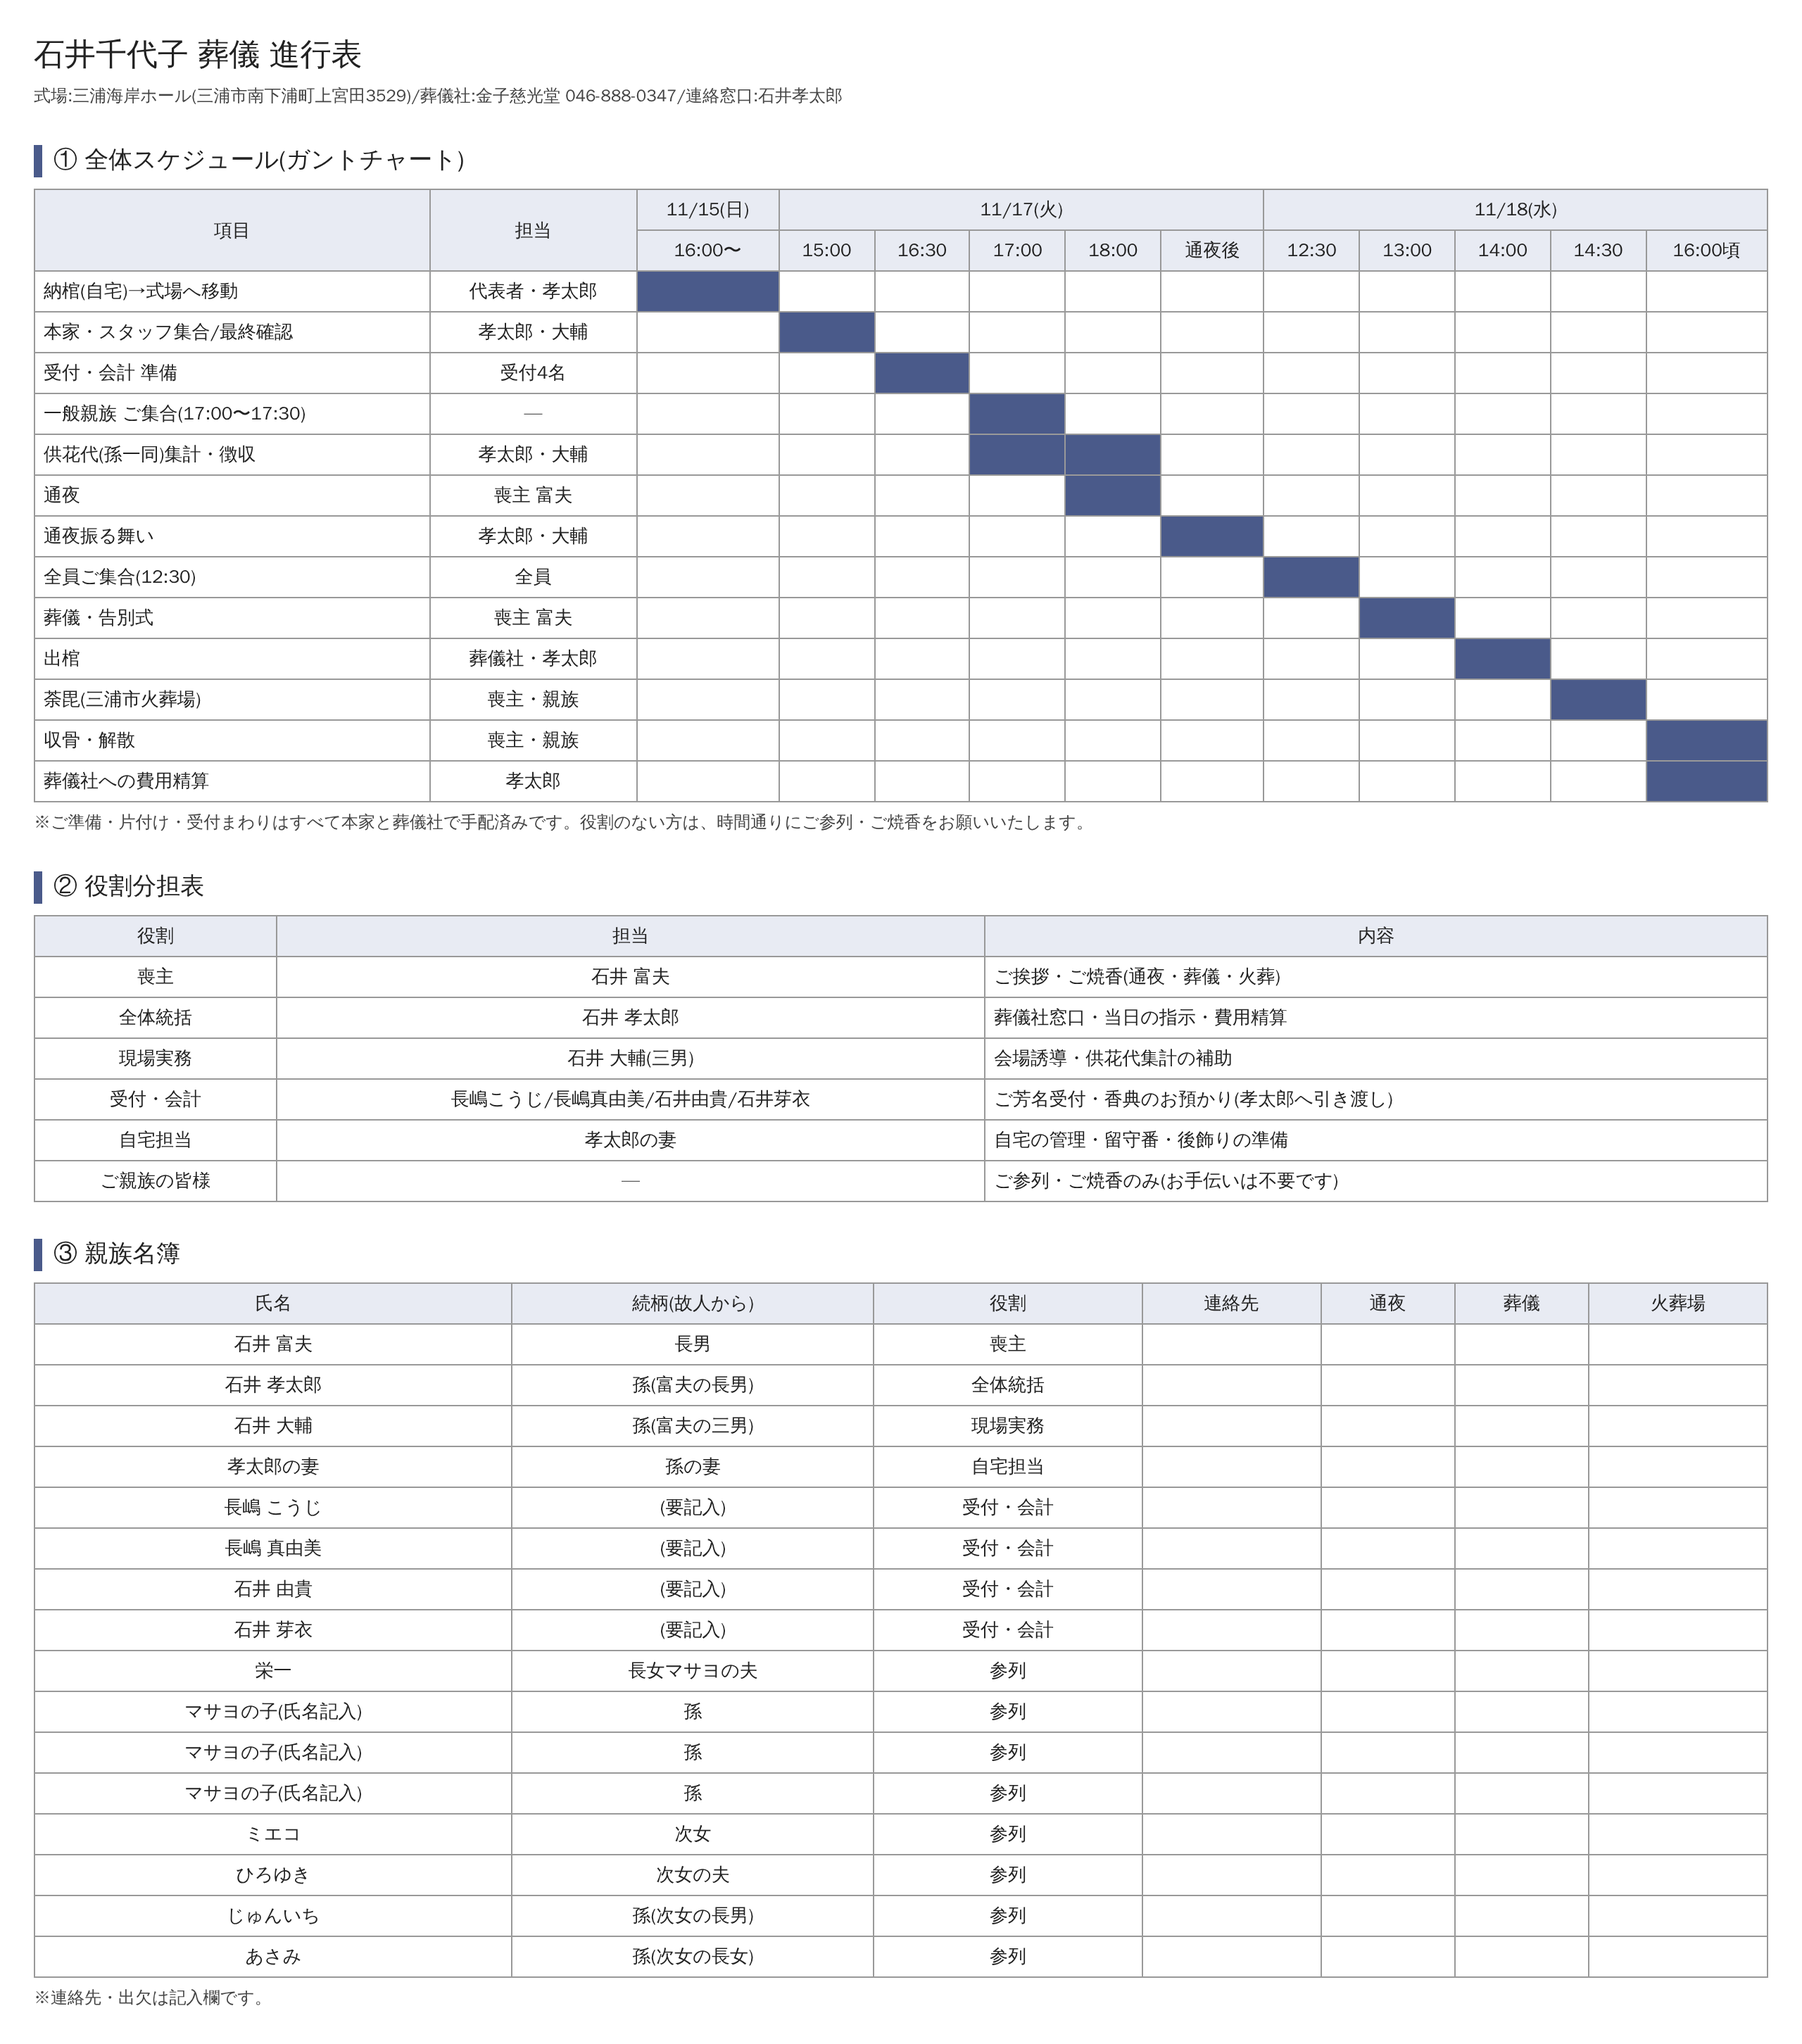
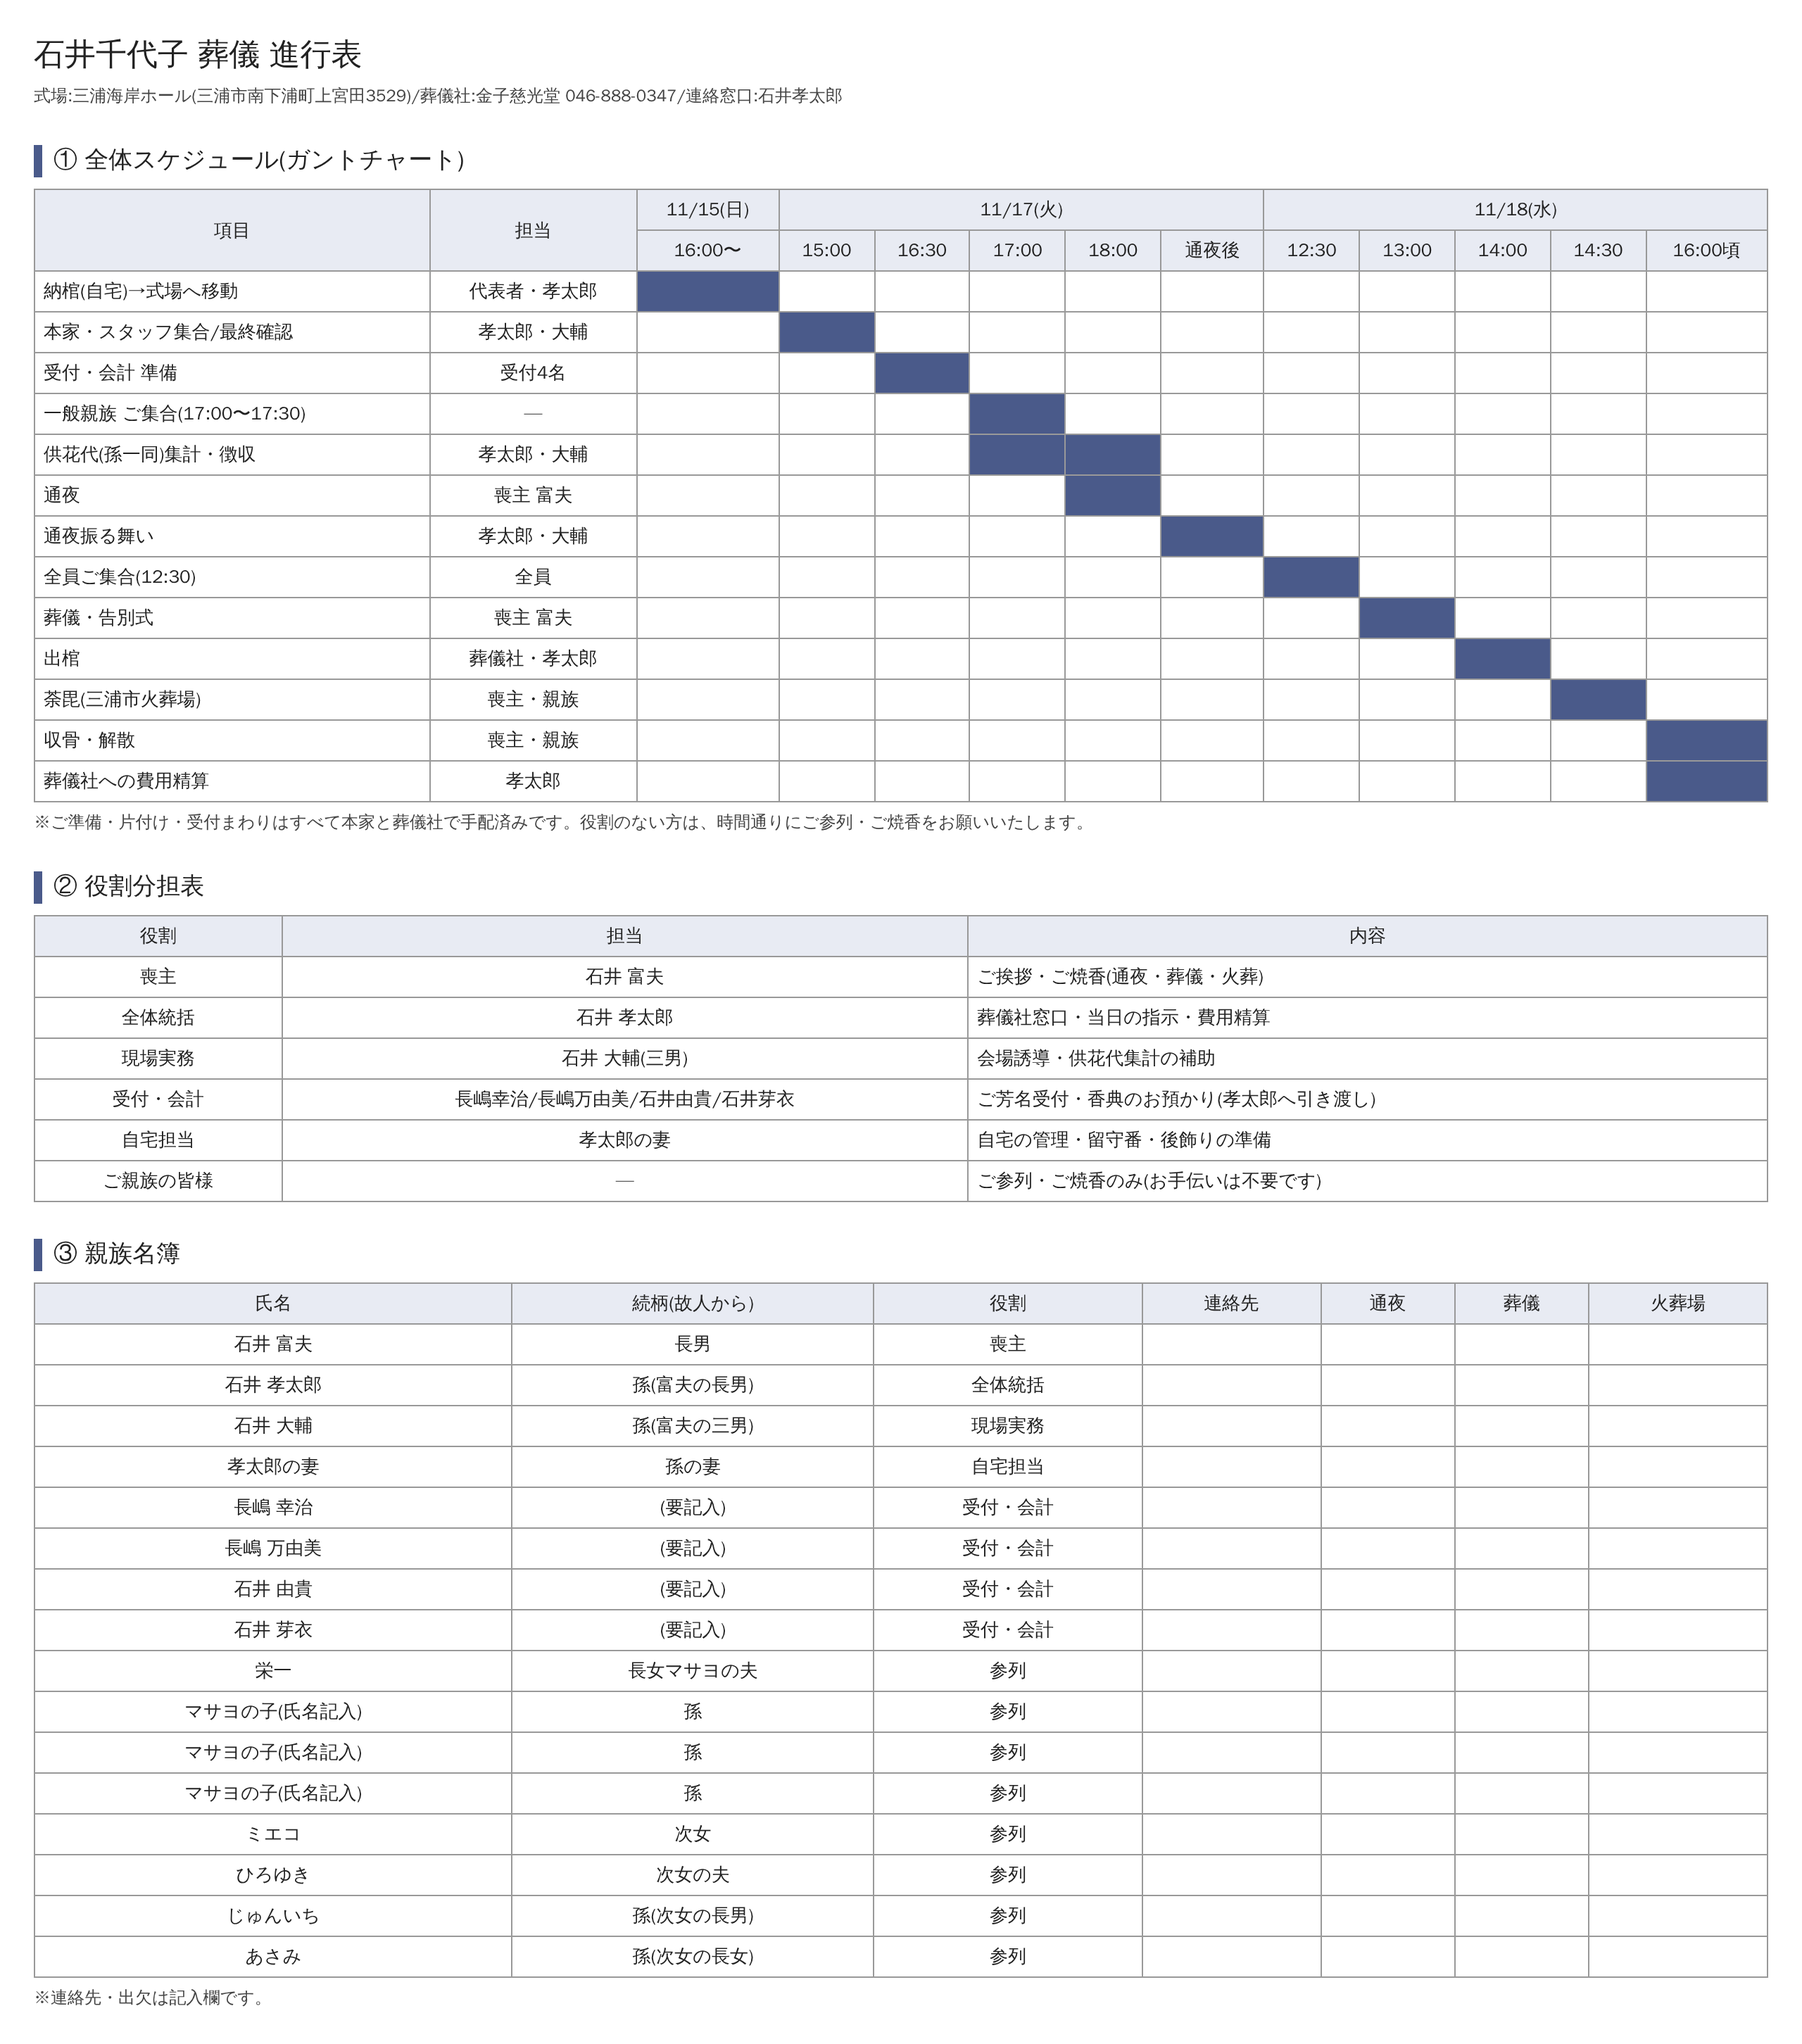
受付担当の氏名を漢字に訂正(長嶋幸治・万由美)
Claude-Session: https://claude.ai/code/session_017EN71ntz6Y61c3RwKNapL6

diff --git a/葬儀資料/葬儀進行表.html b/葬儀資料/葬儀進行表.html
@@ -11,7 +11,7 @@ th{background:#e8ebf3}td.l{text-align:left}.b{background:#4a5a8a}.note{font-size
 <tr><td>喪主</td><td>石井 富夫</td><td class=l>ご挨拶・ご焼香(通夜・葬儀・火葬)</td></tr>
 <tr><td>全体統括</td><td>石井 孝太郎</td><td class=l>葬儀社窓口・当日の指示・費用精算</td></tr>
 <tr><td>現場実務</td><td>石井 大輔(三男)</td><td class=l>会場誘導・供花代集計の補助</td></tr>
-<tr><td>受付・会計</td><td>長嶋こうじ/長嶋真由美/石井由貴/石井芽衣</td><td class=l>ご芳名受付・香典のお預かり(孝太郎へ引き渡し)</td></tr>
+<tr><td>受付・会計</td><td>長嶋幸治/長嶋万由美/石井由貴/石井芽衣</td><td class=l>ご芳名受付・香典のお預かり(孝太郎へ引き渡し)</td></tr>
 <tr><td>自宅担当</td><td>孝太郎の妻</td><td class=l>自宅の管理・留守番・後飾りの準備</td></tr>
 <tr><td>ご親族の皆様</td><td>—</td><td class=l>ご参列・ご焼香のみ(お手伝いは不要です)</td></tr></table>
-<h2>③ 親族名簿</h2><table><tr><th>氏名</th><th>続柄(故人から)</th><th>役割</th><th>連絡先</th><th>通夜</th><th>葬儀</th><th>火葬場</th></tr><tr><td>石井 富夫</td><td>長男</td><td>喪主</td><td></td><td></td><td></td><td></td></tr><tr><td>石井 孝太郎</td><td>孫(富夫の長男)</td><td>全体統括</td><td></td><td></td><td></td><td></td></tr><tr><td>石井 大輔</td><td>孫(富夫の三男)</td><td>現場実務</td><td></td><td></td><td></td><td></td></tr><tr><td>孝太郎の妻</td><td>孫の妻</td><td>自宅担当</td><td></td><td></td><td></td><td></td></tr><tr><td>長嶋 こうじ</td><td>(要記入)</td><td>受付・会計</td><td></td><td></td><td></td><td></td></tr><tr><td>長嶋 真由美</td><td>(要記入)</td><td>受付・会計</td><td></td><td></td><td></td><td></td></tr><tr><td>石井 由貴</td><td>(要記入)</td><td>受付・会計</td><td></td><td></td><td></td><td></td></tr><tr><td>石井 芽衣</td><td>(要記入)</td><td>受付・会計</td><td></td><td></td><td></td><td></td></tr><tr><td>栄一</td><td>長女マサヨの夫</td><td>参列</td><td></td><td></td><td></td><td></td></tr><tr><td>マサヨの子(氏名記入)</td><td>孫</td><td>参列</td><td></td><td></td><td></td><td></td></tr><tr><td>マサヨの子(氏名記入)</td><td>孫</td><td>参列</td><td></td><td></td><td></td><td></td></tr><tr><td>マサヨの子(氏名記入)</td><td>孫</td><td>参列</td><td></td><td></td><td></td><td></td></tr><tr><td>ミエコ</td><td>次女</td><td>参列</td><td></td><td></td><td></td><td></td></tr><tr><td>ひろゆき</td><td>次女の夫</td><td>参列</td><td></td><td></td><td></td><td></td></tr><tr><td>じゅんいち</td><td>孫(次女の長男)</td><td>参列</td><td></td><td></td><td></td><td></td></tr><tr><td>あさみ</td><td>孫(次女の長女)</td><td>参列</td><td></td><td></td><td></td><td></td></tr></table><div class="note">※連絡先・出欠は記入欄です。</div></body></html>
+<h2>③ 親族名簿</h2><table><tr><th>氏名</th><th>続柄(故人から)</th><th>役割</th><th>連絡先</th><th>通夜</th><th>葬儀</th><th>火葬場</th></tr><tr><td>石井 富夫</td><td>長男</td><td>喪主</td><td></td><td></td><td></td><td></td></tr><tr><td>石井 孝太郎</td><td>孫(富夫の長男)</td><td>全体統括</td><td></td><td></td><td></td><td></td></tr><tr><td>石井 大輔</td><td>孫(富夫の三男)</td><td>現場実務</td><td></td><td></td><td></td><td></td></tr><tr><td>孝太郎の妻</td><td>孫の妻</td><td>自宅担当</td><td></td><td></td><td></td><td></td></tr><tr><td>長嶋 幸治</td><td>(要記入)</td><td>受付・会計</td><td></td><td></td><td></td><td></td></tr><tr><td>長嶋 万由美</td><td>(要記入)</td><td>受付・会計</td><td></td><td></td><td></td><td></td></tr><tr><td>石井 由貴</td><td>(要記入)</td><td>受付・会計</td><td></td><td></td><td></td><td></td></tr><tr><td>石井 芽衣</td><td>(要記入)</td><td>受付・会計</td><td></td><td></td><td></td><td></td></tr><tr><td>栄一</td><td>長女マサヨの夫</td><td>参列</td><td></td><td></td><td></td><td></td></tr><tr><td>マサヨの子(氏名記入)</td><td>孫</td><td>参列</td><td></td><td></td><td></td><td></td></tr><tr><td>マサヨの子(氏名記入)</td><td>孫</td><td>参列</td><td></td><td></td><td></td><td></td></tr><tr><td>マサヨの子(氏名記入)</td><td>孫</td><td>参列</td><td></td><td></td><td></td><td></td></tr><tr><td>ミエコ</td><td>次女</td><td>参列</td><td></td><td></td><td></td><td></td></tr><tr><td>ひろゆき</td><td>次女の夫</td><td>参列</td><td></td><td></td><td></td><td></td></tr><tr><td>じゅんいち</td><td>孫(次女の長男)</td><td>参列</td><td></td><td></td><td></td><td></td></tr><tr><td>あさみ</td><td>孫(次女の長女)</td><td>参列</td><td></td><td></td><td></td><td></td></tr></table><div class="note">※連絡先・出欠は記入欄です。</div></body></html>
